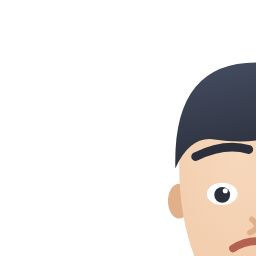
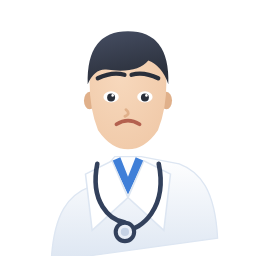
Two things I shipped without looking at, and both were broken
The collapsing header put the compact line on top of the expanded band
and printed "Your clinic" twice. FlexibleSpaceBar draws its title at
every extent, not only when collapsed — I assumed otherwise and never
checked. Reverted to the plain band; collapsing this properly needs a
SliverPersistentHeader with its own layout, and the note is left in the
code so the next attempt does not repeat it. SliverHeroBand is deleted
rather than left in the kit as a trap.

The character art was cropped, not scaled. The SVG declared width=512
and I captured at 256, so Chrome cut the frame instead of resizing it:
every figure sat jammed against the right edge, which is why only half
a face showed on the dashboard. The viewBox keeps the 512 drawing
space, the element now renders at 256, and the fix is verified against
the PNG itself — content bbox was x 167-256 of 256, now 50-219 and
centred. Re-rendered all 27.

Both were mine, both were visible in one screenshot, and neither
needed a device to catch — only looking at the output.

diff --git a/mobile/lib/features/clinician/presentation/clinician_dashboard_screen.dart b/mobile/lib/features/clinician/presentation/clinician_dashboard_screen.dart
@@ -96,55 +96,56 @@ class _ClinicianDashboardScreenState
                       ? const Center(child: CircularProgressIndicator())
                       : RefreshIndicator(
                         onRefresh: () async => _refresh(),
-                        // A CustomScrollView so the band can be a pinned,
-                        // collapsing sliver. Everything below it stays one
-                        // padded column — the list was never the interesting
-                        // part and turning it into slivers would buy nothing.
-                        child: CustomScrollView(
-                          slivers: [
+                        // A plain list. This was briefly a CustomScrollView
+                        // with the band as a collapsing sliver, which was a
+                        // mistake worth recording: FlexibleSpaceBar draws its
+                        // title at *every* extent, not only when collapsed, so
+                        // the compact line rendered on top of the expanded
+                        // band, and CollapseMode.parallax scales the
+                        // background — which pushed the avatar off the right
+                        // edge. Collapsing this header needs a
+                        // SliverPersistentHeader with its own layout, not
+                        // FlexibleSpaceBar.
+                        child: ListView(
+                          children: [
                             if (analytics != null)
                               _ControlHero(analytics: analytics),
-                            SliverPadding(
+                            Padding(
                               padding: const EdgeInsets.fromLTRB(
                                 AppSpacing.md,
                                 AppSpacing.md,
                                 AppSpacing.md,
                                 AppSpacing.xl,
                               ),
-                              sliver: SliverToBoxAdapter(
-                                child: Column(
-                                  crossAxisAlignment:
-                                      CrossAxisAlignment.stretch,
-                                  children: [
-                                    if (overview != null) ...[
-                                      const SizedBox(height: AppSpacing.md),
-                                      _HeadlineRow(overview: overview),
-                                      const SizedBox(height: AppSpacing.md),
-                                      // "Active today" is gone. It counted appointments
-                                      // booked through the app, and this clinic does not
-                                      // book that way — so it read 0 every day and cost a
-                                      // card's worth of the screen saying nothing.
-                                      _AlertStrip(overview: overview),
-                                      if (analytics != null) ...[
-                                        const SizedBox(height: AppSpacing.sm),
-                                        _MonitoringStrip(analytics: analytics),
-                                      ],
-                                      const SizedBox(height: AppSpacing.lg),
+                              child: Column(
+                                crossAxisAlignment: CrossAxisAlignment.stretch,
+                                children: [
+                                  if (overview != null) ...[
+                                    const SizedBox(height: AppSpacing.md),
+                                    _HeadlineRow(overview: overview),
+                                    const SizedBox(height: AppSpacing.md),
+                                    // "Active today" is gone. It counted appointments
+                                    // booked through the app, and this clinic does not
+                                    // book that way — so it read 0 every day and cost a
+                                    // card's worth of the screen saying nothing.
+                                    _AlertStrip(overview: overview),
+                                    if (analytics != null) ...[
+                                      const SizedBox(height: AppSpacing.sm),
+                                      _MonitoringStrip(analytics: analytics),
                                     ],
-                                    if (attention.isNotEmpty) ...[
-                                      AttentionListCard(patients: attention),
-                                      const SizedBox(height: AppSpacing.lg),
-                                    ],
-                                    _TriageQueue(alerts: alerts),
-                                    if (overview != null &&
-                                        overview
-                                            .nutritionReviews
-                                            .isNotEmpty) ...[
-                                      const SizedBox(height: AppSpacing.lg),
-                                      _NutritionReviews(overview: overview),
-                                    ],
+                                    const SizedBox(height: AppSpacing.lg),
                                   ],
-                                ),
+                                  if (attention.isNotEmpty) ...[
+                                    AttentionListCard(patients: attention),
+                                    const SizedBox(height: AppSpacing.lg),
+                                  ],
+                                  _TriageQueue(alerts: alerts),
+                                  if (overview != null &&
+                                      overview.nutritionReviews.isNotEmpty) ...[
+                                    const SizedBox(height: AppSpacing.lg),
+                                    _NutritionReviews(overview: overview),
+                                  ],
+                                ],
                               ),
                             ),
                           ],
@@ -1127,8 +1128,7 @@ class _ControlHero extends ConsumerWidget {
   @override
   Widget build(BuildContext context, WidgetRef ref) {
     final (pct, delta) = _control(analytics.controlTrend);
-    // A sliver, so the empty case has to be one too.
-    if (pct == 0) return const SliverToBoxAdapter(child: SizedBox.shrink());
+    if (pct == 0) return const SizedBox.shrink();
 
     final rising = (delta ?? 0) >= 0;
     final pts =
@@ -1137,11 +1137,9 @@ class _ControlHero extends ConsumerWidget {
             .map((p) => p.inRange / p.total * 100)
             .toList();
 
-    return SliverHeroBand(
+    return HeroBand(
       eyebrow: DateFormat('EEEE, d MMMM').format(DateTime.now()),
       title: 'Your clinic',
-      // What the band becomes once it has been read and scrolled past.
-      compact: 'Your clinic  •  $pct% in range',
       // The face answers "does my clinic need me right now" before the number
       // has been read. Driven by open alerts and monitoring, never by scroll.
       trailing: CharacterAvatar(

diff --git a/mobile/lib/shared/widgets/hero_band.dart b/mobile/lib/shared/widgets/hero_band.dart
@@ -102,91 +102,6 @@ class HeroBand extends StatelessWidget {
   }
 }
 
-/// [HeroBand] as a collapsing sliver.
-///
-/// Scrolling shrinks the band into a slim bar carrying the same information in
-/// one line. This is the scroll-linked motion worth having in a clinical
-/// screen: it is not decoration, it is the header giving its space back to the
-/// data once you have read it, and it never moves anything you were reading.
-///
-/// The parallax and the crossfade are Flutter's own — FlexibleSpaceBar already
-/// does both correctly against real scroll physics, including overscroll and a
-/// fling. Driving a ScrollController by hand would reimplement that and get the
-/// edges wrong.
-///
-/// Motion is dropped entirely when the platform asks for it. "Remove
-/// animations" is an accessibility setting a doctor with vestibular sensitivity
-/// may well have on, and a parallaxing header is exactly what it means.
-class SliverHeroBand extends StatelessWidget {
-  const SliverHeroBand({
-    super.key,
-    required this.eyebrow,
-    required this.title,
-    required this.compact,
-    this.trailing,
-    this.figure,
-    this.footer,
-    this.child,
-    this.expandedHeight = 260,
-  });
-
-  final String eyebrow;
-  final String title;
-
-  /// The one line the band becomes once collapsed.
-  final String compact;
-
-  final Widget? trailing;
-  final HeroFigure? figure;
-  final Widget? footer;
-  final Widget? child;
-  final double expandedHeight;
-
-  @override
-  Widget build(BuildContext context) {
-    final scheme = Theme.of(context).colorScheme;
-    final reduceMotion = MediaQuery.disableAnimationsOf(context);
-
-    return SliverAppBar(
-      pinned: true,
-      elevation: 0,
-      scrolledUnderElevation: 0,
-      surfaceTintColor: Colors.transparent,
-      backgroundColor: scheme.surface,
-      automaticallyImplyLeading: false,
-      // Scaled by the text factor: at large system text the band's own content
-      // grows, and a fixed height would clip the figure rather than the gap.
-      expandedHeight: MediaQuery.textScalerOf(context).scale(expandedHeight),
-      flexibleSpace: FlexibleSpaceBar(
-        collapseMode: reduceMotion ? CollapseMode.none : CollapseMode.parallax,
-        titlePadding: const EdgeInsets.only(
-          left: AppSpacing.md,
-          right: AppSpacing.md,
-          bottom: AppSpacing.md,
-        ),
-        title: Text(
-          compact,
-          maxLines: 1,
-          overflow: TextOverflow.ellipsis,
-          style: TextStyle(
-            fontSize: 16,
-            fontWeight: FontWeight.w700,
-            color: scheme.onSurface,
-          ),
-        ),
-        background: HeroBand(
-          eyebrow: eyebrow,
-          title: title,
-          trailing: trailing,
-          figure: figure,
-          footer: footer,
-          child: child,
-        ),
-      ),
-    );
-  }
-}
-
 /// The tinted ground the bands sit on, on its own so a screen whose hero is
 /// not a number — Profile, whose subject is a face — can use the same colour
 /// without pretending to have a figure.
